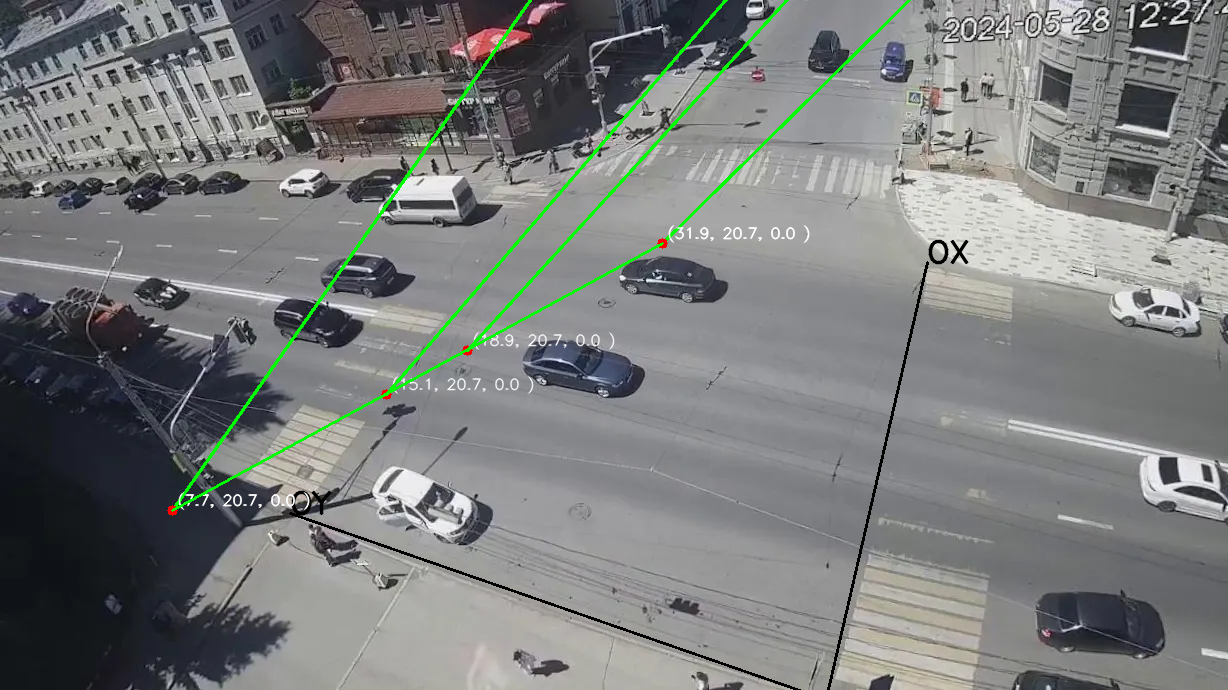
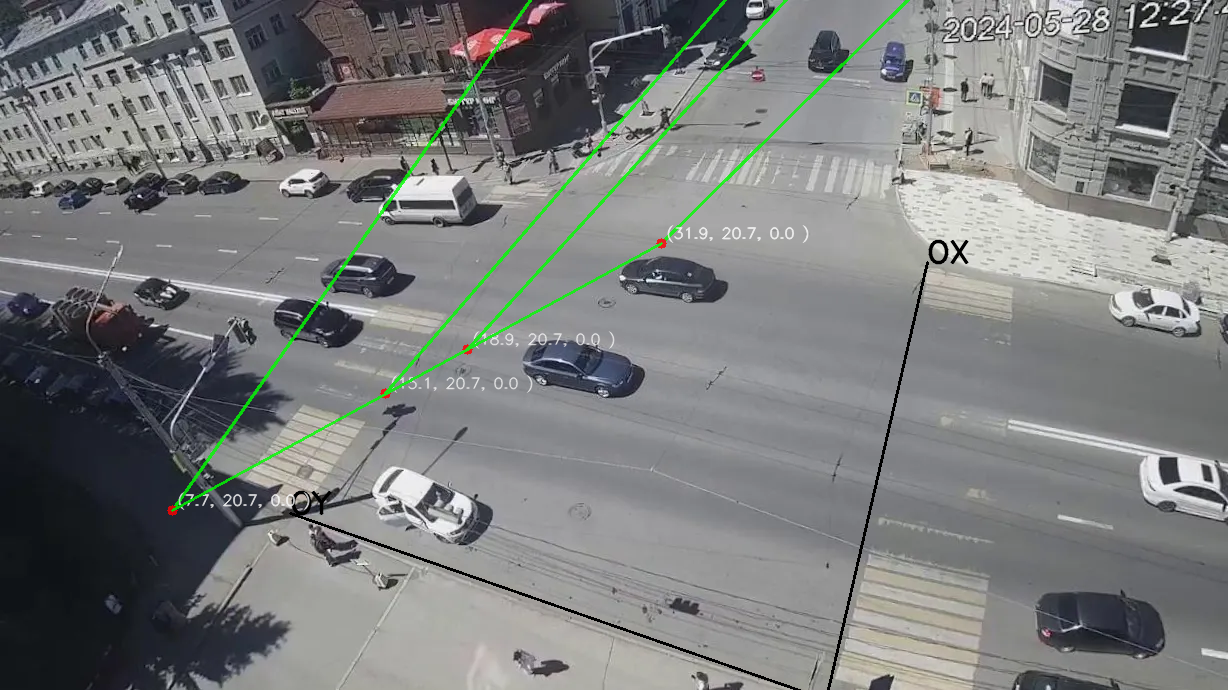
Доработки от АА

diff --git a/src/camera.py b/src/camera.py
@@ -32,7 +32,7 @@ class Camera:
 
     # вычисление матрицы поворота
     def calc_R(self, euler_angles):
-        rot = Rotation.from_euler('xyz', euler_angles, degrees=True)
+        rot = Rotation.from_euler('zxy', euler_angles, degrees=True)
         self.R = rot.as_matrix()
 
     def set_init_R(self, p):
@@ -40,7 +40,7 @@ class Camera:
 
     def get_R(self, angle_output=False, output=False):
         if angle_output:
-            angles = Rotation.from_matrix(self.R).as_euler('xyz', degrees=True)
+            angles = Rotation.from_matrix(self.R).as_euler('zxy', degrees=True)
             # print(f'Углы Эйлера:\n{angles}')
             return angles
         if output:
@@ -48,8 +48,8 @@ class Camera:
         return self.R
 
     # вычисление столбца переноса
-    def calc_T(self, h):
-        self.T = np.array([0, 0, h])
+    def calc_T(self, x=0, y=0, z=0):
+        self.T = np.array([x, y, z])
 
     def get_T(self, output=False):
         if output:
@@ -60,12 +60,12 @@ class Camera:
     def calc_A(self, f, using_tau=True):
         self.f = f
         if using_tau:
-            self.A = np.array([[f, 0, 0],
-                               [0, f * self.tau, 0],
+            self.A = np.array([[f, 0, self.size[1]/2],
+                               [0, f * self.tau, self.size[0]/2],
                                [0, 0, 1]])
         else:
-            self.A = np.array([[f, 0, 0],
-                               [0, f, 0],
+            self.A = np.array([[f, 0, self.size[1]/2],
+                               [0, f, self.size[0]/2],
                                [0, 0, 1]])
 
     def get_A(self, output=False):
@@ -75,12 +75,12 @@ class Camera:
 
     # прямое преобразование
     def direct_transform(self, point_real: Point, params=[]) -> Point:
-        if len(params) > 0:
+        if len(params) > 5:
             self.calc_A(params[0])
             self.calc_R(params[1:4])
-            self.calc_T(params[4])
-
-        _RT = np.hstack([self.R, self.T[:, np.newaxis]])
+            self.calc_T(x=params[4], y=params[5], z=params[6])
+        _T1 = -self.R @ self.T
+        _RT = np.hstack([self.R,_T1[:, np.newaxis]])
         _AT = self.A @ _RT
         _new_point = _AT @ point_real.get_real_full()
         point_image = Point.copy(point_real)
@@ -89,10 +89,10 @@ class Camera:
 
     # обратное преобразование
     def back_transform(self, point_image: Point, params=[]) -> Point:
-        if len(params) == 5:
+        if len(params) > 5:
             self.calc_A(params[0])
             self.calc_R(params[1:4])
-            self.calc_T(params[4])
+            self.calc_T(x=params[4], y=params[5], z=params[6])
 
         _RT = np.hstack([self.R, self.T])
         _AT_inv = np.linalg.inv(self.A @ _RT)

diff --git a/src/plot.py b/src/plot.py
@@ -34,6 +34,8 @@ class Plot:
             start_trans = self.camera.direct_transform(start, params)
             end_trans = self.camera.direct_transform(end, params)
 
+            # print(start_trans.get_image(), ' ', start.get_real())
+            # print(end_trans.get_image(), ' ', end.get_real())
             start_plot = self._get_cv2_format(start_trans)
             self._draw_point_with_label(overlay, start_plot, start_trans.get_real())
             end_plot = self._get_cv2_format(end_trans)
@@ -46,7 +48,7 @@ class Plot:
         cv2.addWeighted(overlay, alpha, scene, 1 - alpha, 0, scene)
 
         if not save and not out_jupyter:
-            cv2.imshow('Вид сцены калибровочный', self.camera.get_scene())
+            cv2.imshow('Вид сцены калибровочный',scene)
             cv2.waitKey(0)
             cv2.destroyAllWindows()
         elif out_jupyter:

diff --git a/src/main.py b/src/main.py
@@ -41,7 +41,4 @@ optimize = Optimizer(camera)
 camera, info = optimize.optimize(lines_from_Point)
 
 plot = Plot(camera)
-plot.draw_tranform_coord(lines_from_Point,save=True)
-
-
-
+plot.draw_tranform_coord(lines_from_Point,params=[700,-40,0,0,20])
